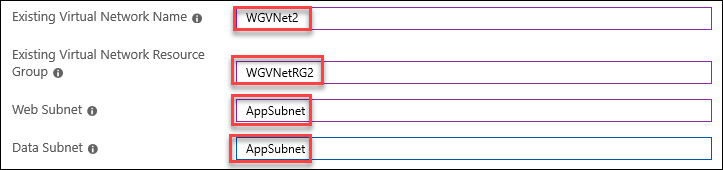
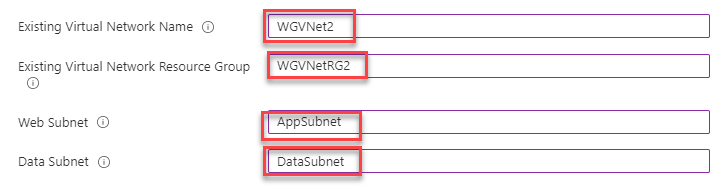
Updated Enterprise Class Networking MCW

Changed region(s): [[0.0, 0.0, 1.0, 1.0], [0.0, 0.8235, 0.1521, 0.9118], [0.0, 0.5882, 0.1521, 0.6765]]

diff --git a/Hands-on lab/Before the HOL - Enterprise-class networking.md b/Hands-on lab/Before the HOL - Enterprise-class networking.md
@@ -53,11 +53,11 @@ If you are working on a machine that cannot run PowerShell, carry out this task.
 
 1.  Launch a browser, and navigate to <https://portal.azure.com>. Once prompted, login with your Microsoft Azure credentials. If asked, choose whether your account is an organization account or just a Microsoft Account.
 
-2.  Select **+Create a resource**, and in the search box, type in **Visual Studio 2019 Latest**, and press enter. In the list of results, select **Visual Studio 2019 Latest**. From the drop down, select **Visual Studio 2019 Community (latest release) on Windows Server 2019 x64**. Then select **Create**.
+2.  Expand the portal's left navigation by clicking **Expand portal menu** on the top left. Select **+Create a resource** on the left navigation, and in the search box, type in **Visual Studio 2019 Latest**, and press enter. In the list of results, select **Visual Studio 2019 Latest**. From the drop down, select **Visual Studio 2019 Community (latest release) on Windows Server 2019 x64**. Then select **Create**.
 
-    ![The Azure Marketplace showing the Visual Studio 2019 image selection.](images/Setup/SetupVS.png "Visual Studio image selection")
+    ![In this screenshot, the Visual Studio 2019 Latest Azure Marketplace option is depicted with the 'Select a software plan' dropdown menu open with the required image and Create button selected.](images/Setup/SetupVS.png "Visual Studio image selection")
 
-3.  On the **Create a virtual machine** blade, on the **Basics** tab, set the following configuration and choose **Next : Disks**:
+3.  On the **Create a virtual machine** blade, on the **Basics** tab, select the following configuration and select **Next : Disks**:
 
     -  Subscription: **If you have multiple subscriptions, choose the subscription to execute your labs in**.
 
@@ -75,17 +75,17 @@ If you are working on a machine that cannot run PowerShell, carry out this task.
 
     -  User name: **demouser**
 
-    -  Password: **demo@pass123**
+    -  Password/Confirm password: **demo@pass123**
 
     -  Public inbound ports: **Allow selected ports**.
 
     -  Select inbound ports: **RDP (3389)**
 
-    -  Already have a Windows license?: **No**
+    -  License type: **Windows server**
 
     >**Note**: If the Azure Subscription you are using is **NOT** a trial Azure subscription, you may want to choose the **Standard D2s v3** to have more power in this LABMV. If you are using a Trial Subscription or one that you know has a restriction on the number of cores, stick with **Standard DS1 v2**.
 
-4.  On the **Create a virtual machine** blade, on the **Disks** tab, set the following configuration and choose **Review + create**:
+4.  On the **Create a virtual machine** blade, on the **Disks** tab, select the following configuration and select **Review + create**:
 
     -  OS disk type: **Standard SSD**
 
@@ -95,9 +95,9 @@ If you are working on a machine that cannot run PowerShell, carry out this task.
 
 6.  Wait for deployment status of **LABVM** to complete. Once the deployment blade displays the message **Your deployment is complete**, select **Go to resource**.
 
-7.  On the **LABVM** blade, first select **Connect**, then select **RDP**, and then select **Download RDP file** to establish a Remote Desktop session.
+7.  On the **LABVM** blade, first select **Connect**, then select **RDP**, and then select **Download RDP File** to establish a Remote Desktop session.
 
-    ![The Connect button is circled on the Azure Portal top menu bar.](images/Setup/image13.png "Azure Portal")
+    ![In this screenshot, the Azure portal page of the newly created virtual machine is depicted with the Connect button highlighted.](images/Setup/image13.png "Azure Portal VM page")
 
 8.  Depending on your Remote Desktop protocol client and browser configuration, you will either be prompted to open an RDP file, or you will need to download it and then open it separately to connect.
 
@@ -109,23 +109,23 @@ If you are working on a machine that cannot run PowerShell, carry out this task.
 
 10. You will be presented with a Remote Desktop Connection warning because of a certificate trust issue. Choose **Yes** to continue with the connection.
 
-    ![The Remote Desktop Connection warning displays, and the Yes button is selected.](images/Setup/image14.png "Remote Desktop Connection warning")
+    ![In this screenshot, the Remote Desktop Connection warning is depicted with the Yes button selected.](images/Setup/image14.png "Remote Desktop Connection warning")
 
 11. When logging on for the first time, there will be a prompt asking about network discovery. Select **No**.
 
-    ![On the Network Discovery prompt, the No button is selected.](images/Setup/image15.png "Network Discovery prompt")
+    ![In this screenshot, the Network Discovery prompt of the virtual machine we connected to is depicted with the No button selected.](images/Setup/image15.png "Network Discovery prompt")
 
-12. Notice that Server Manager opens by default. Select **Local Server**.
+12. Notice that Server Manager opens by default. Select **Local Server** on the left.
 
-    ![On the Server Manager menu, Local Server is selected.](images/Setup/image16.png "Server Manager menu")
+    ![In this screenshot, Server Manager window is depicted with Local Server selected on the left.](images/Setup/image16.png "Server Manager menu")
 
 13. In the Local Server pane, ensure the **IE Enhanced Security Configuration** is set to **Off**. If that is not the case, select **On**.
 
-    ![In the Essentials section, IE Enhanced Security Configuration is set to On, and is selected.](images/Setup/image17.png "Essentials section")
+    ![In this screenshot, the Local Server section of Server Manager is depicted with IE Enhanced Security Configuration set to On, with the On button selected.](images/Setup/image17.png "Local Server section")
 
 14. Change the setting to **Off** for Administrators, and select **OK**.
 
-    ![In the Internet Explorer Enhanced Security Configuration dialog box, Administrators are set to Off, and the OK button is selected.](images/Setup/image18.png "Internet Explorer Enhanced Security Configuration dialog box")
+    ![In this screenshot, the Internet Explorer Enhanced Security Configuration dialog box is depicted with Administrators set to Off, and the OK button selected.](images/Setup/image18.png "Internet Explorer Enhanced Security Configuration dialog box")
 
 ### Task 2: Download hands-on lab step-by-step support files
 
@@ -140,37 +140,43 @@ If you are working on a machine that cannot run PowerShell, carry out this task.
 
 ### Task 3: Create a Virtual Network (hub) with Subnets
 
-1.  From your **LABVM**, connect to the Azure portal, select **+ Create a resource**, and in the list of Marketplace categories, select **Networking** followed by selecting **Virtual Network**.
+1.  From your **LABVM**, connect to the Azure portal, expand the left navigation select **+ Create a resource**, then in the **Search the Marketplace** box, search for and select **Virtual Network** then select **Create**.
 
-2.  On the **Create virtual network** blade, enter the following information:
-
-    -  Name: **WGVNet2**
-
-    -  Address space: **10.8.0.0/20**
+2.  On the **Basics** tab of the **Create virtual network** blade, enter the following information:
 
     -  Subscription: **Choose your subscription**.
 
     -  Resource group: Select **Create new**, and enter the name **WGVNetRG2**.
 
-    -  Location: **(US) South Central US**
+    - Name: **WGVNet2**
 
-    -  Subnet name: **AppSubnet**
+    -  Region: **(US) South Central US**
 
-    -  Subnet address range: **10.8.0.0/25**
+3.  Upon completion, it should look like the following screenshot. Validate the information is correct, and choose **Next: IP Addresses**.
 
-3.  Upon completion, it should look like the following screenshot. Validate the information is correct, and choose **Create**.
+    ![In this screenshot, the Basics tab of the 'Create virtual machine' blade of the Azure portal is depicted with the required settings selected and the 'Next: IP Addresses' button selected.](images/Hands-onlabstep-by-step-Enterprise-classnetworkinginAzureimages/media/image31.png "Create virtual network basics")
 
-    ![This represents the properly filled out fields when creating a second Virtual Network.](images/Hands-onlabstep-by-step-Enterprise-classnetworkinginAzureimages/media/image31.png "Create virtual network")
+4. On the **IP Addresses** tab of the **Create virtual network** blade. enter the following information:
 
-4.  Go to the WGVNetRG2 Resource Group, and select the **WGVNet2** blade if you're not there already, and select **Subnets** under **Settings** on the left.
+    -  IPv4 address space: **10.8.0.0/20**
+
+    -  Select **+ Add subnet** then in the **Add subnet** blade that appears on the right, enter the following information and select **Add**.
+
+       -  Subnet name: **AppSubnet**
+
+       -  Subnet address range: **10.8.0.0/25**
+
+5. Once complete, click **Review + Create** then once the validation passes, click **Create**. 
+
+6.  Go to the WGVNetRG2 Resource Group, and select the **WGVNet2** blade if you're not there already, and select **Subnets** under **Settings** on the left.
 
     ![This is a subnet configuration.](images/Hands-onlabstep-by-step-Enterprise-classnetworkinginAzureimages/media/image32.png "Subnets blade")
 
-5.  In the **Subnets** blade, select **+Subnet**.
+7.  In the **Subnets** blade, select **+Subnet**.
 
     ![In the Subnets blade, the add Subnet button is selected.](images/Hands-onlabstep-by-step-Enterprise-classnetworkinginAzureimages/media/image29.png "Subnets blade")
 
-6.  On the **Add subnet** blade, enter the following information:
+8.  On the **Add subnet** blade, enter the following information:
 
     -  Name: **DataSubnet**
 
@@ -180,37 +186,37 @@ If you are working on a machine that cannot run PowerShell, carry out this task.
 
     -  Route table: **None**
 
-7.  When your dialog looks like the following screenshot, select **OK** to create the subnet.
+9.  When your dialog looks like the following screenshot, select **Save** to create the subnet.
 
-    ![This represents the properly filled out fields when creating AppSubnet of the second Virtual Network.](images/Hands-onlabstep-by-step-Enterprise-classnetworkinginAzureimages/media/image33.png "Subnets blade")
+    ![In this screenshot, the 'Add subnet' blade of the Azure portal is depicted with the required information for the DataSubnet selected.](images/Hands-onlabstep-by-step-Enterprise-classnetworkinginAzureimages/media/image33.png "Add subnet blade")
 
-8. When the subnet has completed its configuration your subnet deployment will look like the following screenshot.
+10. When the subnet has completed its configuration your subnet deployment will look like the following screenshot.
 
-     ![This represents the properly filled out fields when creating AppSubnet of the second Virtual Network.](images/Hands-onlabstep-by-step-Enterprise-classnetworkinginAzureimages/media/image158.png "Subnets blade")  
+     ![In this screenshot, the Azure portal Subnets blade of the WGVNet2 virtual network is depicted with the newly created subnets listed.](images/Hands-onlabstep-by-step-Enterprise-classnetworkinginAzureimages/media/image158.png "Subnets blade")  
 
 ### Task 4: Use the Azure portal for a template deployment
 
 > **Note:** If you have not downloaded the student files see this section in the before getting started section of this hands-on lab.
 
-1.  On your LABVM, open the **C:\\ECN-Hackathon** which contains the student files for this lab.
+1.  On your LABVM, open the **C:\\ECN-Hackathon** folder which contains the student files for this lab.
 
 2.  Make sure you are signed into the Azure portal at <http://portal.azure.com>.
 
-3.  Choose **+ Create a resource**, and search for and select **template deployment**.
+3.  Expand the left navigation and choose **+ Create a resource**, and search for and select **template deployment (deploy using custom templates)**.
 
-    ![On the New blade, the Search the Marketplace text box contains the text Template deployment.](images/Hands-onlabstep-by-step-Enterprise-classnetworkinginAzureimages/media/image56.png "New blade")
+    ![In this screenshot, the New blade of the Azure portal is depicted with 'Template deployment' entered in the 'Search the Marketplace' box.](images/Hands-onlabstep-by-step-Enterprise-classnetworkinginAzureimages/media/image56.png "New blade")
 
-4.  On the Template deployment blade, select **Create**.
+4.  On the **Template deployment (deploy using custom templates)** blade, select **Create**.
 
 5.  On the Custom deployment blade, select **Build your own template in the editor**.
 
-    ![In the Custom deployment blade, the link to Build your own template in the editor is selected.](images/Hands-onlabstep-by-step-Enterprise-classnetworkinginAzureimages/media/image57.png "Custom deployment blade")
+    ![In this screenshot, the 'Custom deployment' blade of the Azure portal is depicted with the 'Build your own template in the editor' button selected.](images/Hands-onlabstep-by-step-Enterprise-classnetworkinginAzureimages/media/image57.png "Custom deployment blade")
 
 6.  Choose **Load file** and select the **CloudShop.json** file from your **C:\\ECN-Hackathon** directory and then select **Save**.
 
-    ![In the Edit template blade, Load file is selected.](images/Hands-onlabstep-by-step-Enterprise-classnetworkinginAzureimages/media/image58.png "Edit template blade")
+    ![In this screenshot, the 'Edit template' blade of the Azure portal is depicted with the 'Load file' button selected.](images/Hands-onlabstep-by-step-Enterprise-classnetworkinginAzureimages/media/image58.png "Edit template blade")
 
-7.  Update the following parameters to reference the **WGVNet2** virtual network in the **WGVNetRG2** resource group and to the **AppSubnet** subnet.
+7.  Update the following parameters to reference the **WGVNet2** virtual network in the **WGVNetRG2** resource group and to the **AppSubnet** and **DataSubnet** subnets.
 
     - Existing Virtual Network Name: **WGVNet2**
   
@@ -220,15 +226,15 @@ If you are working on a machine that cannot run PowerShell, carry out this task.
   
     - Data Subnet: **DataSubnet**
 
-    ![A screenshot that shows the Existing Virtual Network Name, Existing Virtual Network Resource group parameters, Web Subnet, and Data Subnet.](images/Hands-onlabstep-by-step-Enterprise-classnetworkinginAzureimages/media/image59.png "Template parameters")
+    ![In this screenshot, the 'Custom deployment' blade of the Azure portal is depicted with the parameters listed above selected with their proper values.](images/Hands-onlabstep-by-step-Enterprise-classnetworkinginAzureimages/media/image59.png "Template parameters")
 
-8.  Update the **Custom deployment** blade using the following inputs, agree to the terms, and choose **Purchase**. This deployment will take approximately 30-40 minutes.
+8.  Update the **Custom deployment** blade using the following inputs, agree to the terms, and select **Review + create** then **Create**. This deployment will take approximately 30-40 minutes.
 
     -  Resource Group: Select **WGVNetRG2** you created earlier.
 
-    -  Location: **(US) South Central US** (The same location you used to provision resources earlier in this lab.) Select the **check box** at the bottom to agree to the terms then select the **Purchase** button to begin the deployment.
+    -  Location: **(US) South Central US** (The same location you used to provision resources earlier in this lab.)
 
-    ![Deployment purchase in updating the Custom deployment blade.](images/Hands-onlabstep-by-step-Enterprise-classnetworkinginAzureimages/media/image60.png "Template blade")
+    ![In this screenshot, the 'Custom deployment' blade of the Azure portal is depicted with the parameters listed above selected with their proper values.](images/Hands-onlabstep-by-step-Enterprise-classnetworkinginAzureimages/media/image60.png "Template blade")
 
 ### Task 5: Validate the CloudShop application is up after the deployment
 
@@ -238,7 +244,7 @@ If you are working on a machine that cannot run PowerShell, carry out this task.
 
 3.  On the **WGWEB1** blade, first select **Connect**, then select **RDP**, and then choose **Download RDP file** to establish a Remote Desktop session.
 
-    ![CloudShop application connection test.](images/Hands-onlabstep-by-step-Enterprise-classnetworkinginAzureimages/media/image61.png "Virtual machine blade")
+    ![In this screenshot, the WGWEB1 virtual machine blade of the Azure portal is depicted with the Connect button selected.](images/Hands-onlabstep-by-step-Enterprise-classnetworkinginAzureimages/media/image61.png "Virtual machine blade")
 
 4.  Depending on your Remote Desktop protocol client and browser configuration, you will either be prompted to open an RDP file, or you will need to download it and then open it separately to connect.
 
@@ -250,23 +256,23 @@ If you are working on a machine that cannot run PowerShell, carry out this task.
 
 6.  You will be presented with a Remote Desktop Connection warning because of a certificate trust issue. Select **Yes** to continue with the connection.
 
-    ![The Remote Desktop Connection dialog box displays, warning you that the remote computer's identity cannot be verified, and asking you if you want to connect anyway. The Don't ask me again for connections to this computer is selected, as is the Yes button at the bottom.](images/Hands-onlabstep-by-step-Enterprise-classnetworkinginAzureimages/media/image62.png "Remote Desktop Connection warning dialog box")
+    ![In this screenshot, the Remote Desktop Connection warning is depicted with the Yes button and 'Don't ask me again' box selected.](images/Hands-onlabstep-by-step-Enterprise-classnetworkinginAzureimages/media/image62.png "Remote Desktop Connection warning dialog box")
 
 7.  When logging on for the first time, you will have a prompt asking about network discovery. Select **No**.
 
-    ![The Networks prompt asks if you want to find other computers, devices and content automatically. The No button is selected.](images/Setup/image15.png "Networks prompt")
+    ![In this screenshot, the Network Discovery prompt of the virtual machine we connected to is depicted with the No button selected.](images/Setup/image15.png "Networks prompt")
 
 8.  Notice that Server Manager opens by default. Choose **Local Server**.
 
-    ![Local Server is selected on the Server Manager menu.](images/Hands-onlabstep-by-step-Enterprise-classnetworkinginAzureimages/media/image63.png "Server Manager menu")
+    ![In this screenshot, Server Manager window is depicted with Local Server selected on the left.](images/Hands-onlabstep-by-step-Enterprise-classnetworkinginAzureimages/media/image63.png "Server Manager menu")
 
 9.  In the Local Server pane, ensure the **IE Enhanced Security Configuration** is set to **Off**. If that is not the case, select **On**.
 
-    ![IE Enhanced Security Configuration is set to On, and is selected.](images/Hands-onlabstep-by-step-Enterprise-classnetworkinginAzureimages/media/image64.png "Under Essentials")
+    ![IIn this screenshot, the Local Server section of Server Manager is depicted with IE Enhanced Security Configuration set to On, with the On button selected.](images/Hands-onlabstep-by-step-Enterprise-classnetworkinginAzureimages/media/image64.png "Under Essentials")
 
 10. If needed, change to **Off** for Administrators, and select **OK**.
 
-    ![In the Internet Explorer Enhanced Security Configuration dialog box, the Administrators Off radio button is selected, and the OK button is selected as well.](images/Setup/image18.png "Internet Explorer Enhanced Security Configuration")
+    ![In this screenshot, the Internet Explorer Enhanced Security Configuration dialog box is depicted with Administrators set to Off, and the OK button selected.](images/Setup/image18.png "Internet Explorer Enhanced Security Configuration")
 
 11. You will now ensure the CloudShop application is up and running. Open Internet Explorer, and browse to both the WGWEB1 and WGWEB2 servers:
 
